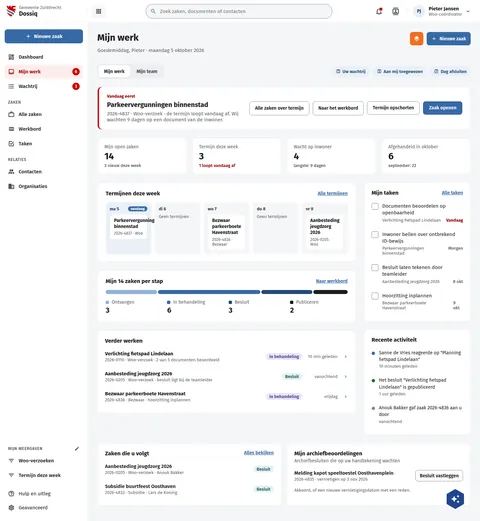
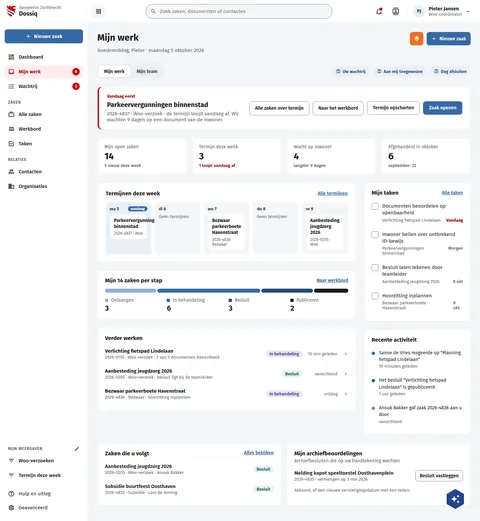
fix(screens): DqMijnWerk draws "Mijn 14 zaken per stap" as the other Dq cards
The card was the last on the board drawn 22px 24px in with 16px between
its title and the bar; every other Dq dashboard card is 20px 22px in, and
a chart card's content starts about 14px under its title (live 13.75).
r29 to r31 flagged gapBelowTitle 16 vs 13.8. Board and thumbnail rebuilt
with build.py --only DqMijnWerk; the height does not move.

Assisted-by: ClaudeCode:claude-opus-5-5

Changed region(s): [[0.2188, 0.5221, 0.7188, 0.6142], [0.2188, 0.6449, 0.4688, 0.7678], [0.5625, 0.6756, 0.7188, 0.7678]]

diff --git a/preview/screens/boards/DqMijnWerk.html b/preview/screens/boards/DqMijnWerk.html
@@ -239,7 +239,7 @@ a{color:var(--sc-primary, #3669a5)}a:hover{color:var(--sc-primary-deep, #234a78)
               </div>
             </section>
 
-            <section aria-labelledby="stappen" style="background: #ffffff; border: 1px solid var(--sc-work-line, #e4e6ea); border-radius: 12px; padding: 22px 24px; display: flex; flex-direction: column; gap: 16px">
+            <section aria-labelledby="stappen" style="background: #ffffff; border: 1px solid var(--sc-work-line, #e4e6ea); border-radius: 12px; padding: 20px 22px; display: flex; flex-direction: column; gap: 14px">
               <div style="display: flex; justify-content: space-between; align-items: center"><h2 id="stappen" style="margin: 0; font-size: 17px; font-weight: 700">Mijn 14 zaken per stap</h2><a href="DqWerkbord.html" style="font-size: 14px; font-weight: 600">Naar werkbord</a></div>
               <div aria-hidden="true" style="display: flex; gap: 3px; height: 12px">
                 <span style="flex: 3; border-radius: 6px; background: #8fb0d9"></span><span style="flex: 6; border-radius: 6px; background: var(--sc-primary, #3669a5)"></span><span style="flex: 3; border-radius: 6px; background: var(--sc-primary-deep, #234a78)"></span><span style="flex: 2; border-radius: 6px; background: var(--sc-work-ink, #1b1c1d)"></span>

diff --git a/screens-src/zuiddrecht/DqMijnWerk.dc.html b/screens-src/zuiddrecht/DqMijnWerk.dc.html
@@ -75,7 +75,7 @@ a{color:#3669a5}a:hover{color:#234a78}
               </div>
             </section>
 
-            <section aria-labelledby="stappen" style="background: #ffffff; border: 1px solid #e4e6ea; border-radius: 12px; padding: 22px 24px; display: flex; flex-direction: column; gap: 16px">
+            <section aria-labelledby="stappen" style="background: #ffffff; border: 1px solid #e4e6ea; border-radius: 12px; padding: 20px 22px; display: flex; flex-direction: column; gap: 14px">
               <div style="display: flex; justify-content: space-between; align-items: center"><h2 id="stappen" style="margin: 0; font-size: 17px; font-weight: 700">Mijn 14 zaken per stap</h2><a href="DqWerkbord.dc.html" style="font-size: 14px; font-weight: 600">Naar werkbord</a></div>
               <div aria-hidden="true" style="display: flex; gap: 3px; height: 12px">
                 <sc-for list="{{ stages }}" as="s" hint-placeholder-count="4"><span style="{{ s.bar }}"></span></sc-for>
